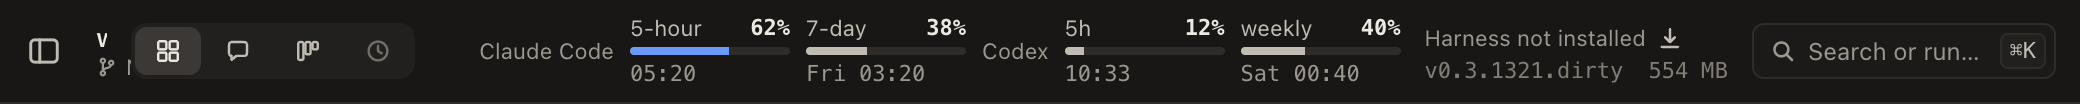
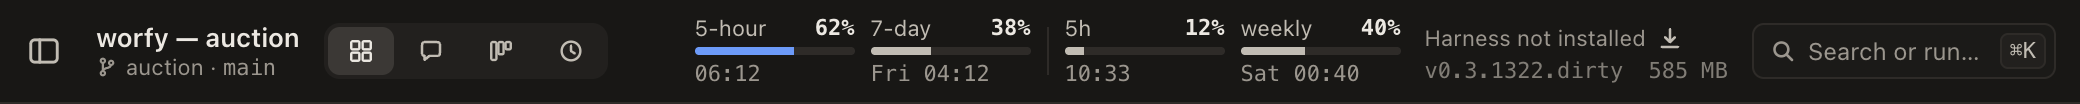
fix(limits): keep the Project title whole next to two Limits sections (worfy-multi-vendor 26)
- A section with bars no longer shows its Vendor's name: the name is the section's tooltip and its
  accessible name, as the F mockup shows no names. With Codex signed in, the visible names took the
  width of the Project title, which fell to ~6 px ("w...") in a 1280 px window.
- A compact panel parts its sections with a thin line; a section without bars still names its Vendor
  ("Codex No limits reported"). Claude's section alone is the F mockup again, without "Claude Code".
- The e2e opens a Project at 1280 px and checks that the title and its branch line are whole.
- Removes the stale doc comment before receive() of the Codex Session.

diff --git a/test/e2e/limits-vendors.spec.ts b/test/e2e/limits-vendors.spec.ts
@@ -1,9 +1,11 @@
+import { execFileSync } from 'node:child_process'
 import { mkdirSync, mkdtempSync, realpathSync, writeFileSync } from 'node:fs'
 import { rm } from 'node:fs/promises'
 import { tmpdir } from 'node:os'
 import { join } from 'node:path'
 import { expect, test, type Locator, type Page } from '@playwright/test'
 import { launchApp, repoRoot } from './helpers'
+import { profileJsonScript } from '../harness-node'
 
 // The Limits panel by Vendor (worfy-multi-vendor ticket 26) against the built app: Claude's section from
 // limits.json, and the Codex section from the background poll of the Codex driver, which e2e runs make
@@ -12,6 +14,30 @@ import { launchApp, repoRoot } from './helpers'
 // account-plus.jsonl — signed in to the Plus plan, a 5-hour window at 12 % and a weekly one at 40 %.
 // A Codex Session cannot start in the app yet (tickets 23 and 24), so the section comes from the poll,
 // not from a Codex turn; the turn's `limits` event is test/contract/codex-session-limits.test.ts.
+// The window is 1280 px wide with a Project open, as the F mockup draws the toolbar: with both sections the
+// Project title and its branch line stay whole (ticket 26, rework round 1).
+
+/** The Project of the F mockup (docs/design/F-canvas-light.dc.html): the title reads `worfy — auction`. */
+const PROJECT = 'auction'
+const WIDTH = 1280
+
+/**
+ * A `bin/profile` stub that knows every folder, so "Add project" puts the repository into the list at
+ * once (as in test/e2e/toolbar.spec.ts).
+ */
+const KNOWS_ALL = profileJsonScript('{"name":"stub","_resolved":{"workspace":null}}')
+
+function makeRepo(parent: string, name: string): string {
+  const dir = join(parent, name)
+  mkdirSync(dir, { recursive: true })
+  const env = Object.fromEntries(Object.entries(process.env).filter(([key]) => !key.startsWith('GIT_')))
+  const git = (...args: string[]) => execFileSync('git', ['-c', 'user.name=t', '-c', 'user.email=t@t', ...args], { cwd: dir, env })
+  git('init', '-q', '-b', 'main')
+  writeFileSync(join(dir, 'README.md'), name)
+  git('add', '.')
+  git('commit', '-q', '-m', 'init')
+  return realpathSync.native(dir)
+}
 
 const removeDir = (dir: string): Promise<void> => rm(dir, { recursive: true, force: true, maxRetries: 5, retryDelay: 100 })
 
@@ -61,13 +87,37 @@ async function screenshots(window: Page, name: string): Promise<void> {
 test('signed in to Codex: a Codex section with the windows of its plan next to Claude\'s, inside the toolbar', async () => {
   const launched = await launchApp({ env: { WORFY_DATA_DIR: dataDir, CODEX_HOME: codexHome, WORFY_CODEX_SCRIPT: 'account-plus', WORFY_CODEX_SCRIPTS: join(repoRoot, 'test', 'fixtures', 'codex-scripts') } })
   try {
-    const { window } = launched
+    const { app, window } = launched
+    await expect(window.getByTestId('app-shell')).toBeVisible()
+    await expect.poll(() => app.evaluate(({ BrowserWindow }) => BrowserWindow.getAllWindows()[0]?.isVisible() ?? false)).toBe(true)
+    // Set the size once the window is on screen (macOS fits a window shown later into the display).
+    await expect
+      .poll(async () => {
+        const width = await window.evaluate(() => (globalThis as unknown as { innerWidth: number }).innerWidth)
+        if (width !== WIDTH) await app.evaluate(({ BrowserWindow }, wanted) => BrowserWindow.getAllWindows()[0]?.setContentSize(wanted, 800), WIDTH)
+        return width
+      })
+      .toBe(WIDTH)
+    const repo = makeRepo(scratch, PROJECT)
+    mkdirSync(join(launched.claudeHome, 'bin'), { recursive: true })
+    writeFileSync(join(launched.claudeHome, 'bin', 'profile'), KNOWS_ALL, { mode: 0o755 })
+    await app.evaluate(({ dialog }, path) => {
+      dialog.showOpenDialog = (() => Promise.resolve({ canceled: false, filePaths: [path] })) as typeof dialog.showOpenDialog
+    }, repo)
+    await window.getByRole('button', { name: 'Add project' }).click()
+    const toolbar = window.getByRole('banner')
+    await expect(toolbar.locator('.w-toolbar__name')).toHaveText(`worfy — ${PROJECT}`)
+
     const meter = window.getByTestId('limits-meter')
     const claude = meter.getByRole('group', { name: 'Claude Code limits' })
     const codex = meter.getByRole('group', { name: 'Codex limits' })
 
     await expect(codex).toBeVisible()
-    await expect(codex.getByTestId('limits-codex-name')).toHaveText('Codex')
+    // The Vendor's name is the section's tooltip, not a visible label; a thin line parts the two sections.
+    await expect(codex).toHaveAttribute('title', 'Codex')
+    await expect(meter.getByTestId('limits-codex-name')).toHaveCount(0)
+    await expect(meter).not.toContainText('Codex')
+    await expect(meter.getByTestId('limits-divider')).toHaveCount(1)
     // Shortest window first, each labelled by its length as Codex's own TUI does.
     await expect(codex.getByRole('meter')).toHaveCount(2)
     await expect(codex.getByRole('meter', { name: '5h limit' })).toHaveAttribute('aria-valuenow', '12')
@@ -82,13 +132,13 @@ test('signed in to Codex: a Codex section with the windows of its plan next to C
     expect(first.x, 'the 5-hour window before the weekly one').toBeLessThan(second.x)
 
     // Claude's section keeps its bars and their test ids.
-    await expect(claude.getByTestId('limits-claude-name')).toHaveText('Claude Code')
+    await expect(claude).toHaveAttribute('title', 'Claude Code')
+    await expect(meter).not.toContainText('Claude Code')
     await expect(claude.getByTestId('limit-five_hour-value')).toHaveText('62%')
     await expect(claude.getByTestId('limit-seven_day-value')).toHaveText('38%')
     expect((await box(claude)).x, 'Claude\'s section first').toBeLessThan((await box(codex)).x)
 
     // Both sections fit the toolbar: the meter ends before the Harness column, inside the window.
-    const toolbar = window.getByRole('banner')
     const limits = await box(meter)
     const harness = await box(toolbar.getByTestId('harness-column'))
     expect(limits.x + limits.width, `the Limits (${JSON.stringify(limits)}) end before the Harness column (${JSON.stringify(harness)})`).toBeLessThanOrEqual(harness.x)
@@ -108,6 +158,23 @@ test('signed in to Codex: a Codex section with the windows of its plan next to C
       })
       expect(cut, `a text of ${id} is cut`).toBe(false)
     }
+
+    // The Project title and its branch line stay whole next to both sections: neither is cut with an
+    // ellipsis (visible Vendor names once left the title ~6 px, `w…`), and the title ends before the View switch.
+    const title = await box(toolbar.locator('.w-toolbar__title'))
+    const view = await box(toolbar.getByRole('group', { name: 'View', exact: true }))
+    expect(title.x + title.width, `the title (${JSON.stringify(title)}) ends before the View switch (${JSON.stringify(view)})`).toBeLessThanOrEqual(view.x)
+    for (const [part, locator] of [
+      ['title', toolbar.locator('.w-toolbar__name')],
+      ['branch line', toolbar.locator('.w-toolbar__subtitle-text')],
+    ] as const) {
+      const overflow = await locator.evaluate((node) => {
+        const found = node as unknown as { scrollWidth: number; clientWidth: number }
+        return { scrollWidth: found.scrollWidth, clientWidth: found.clientWidth }
+      })
+      expect(overflow.scrollWidth, `the ${part} is whole (${JSON.stringify(overflow)})`).toBeLessThanOrEqual(overflow.clientWidth)
+    }
+    await expect(toolbar.locator('.w-toolbar__subtitle-text')).toHaveText(`${PROJECT} · main`)
 
     await screenshots(window, 'limits-vendors')
   } finally {

diff --git a/src/renderer/shell/toolbar/LimitsMeter.tsx b/src/renderer/shell/toolbar/LimitsMeter.tsx
@@ -1,18 +1,25 @@
+import { Fragment } from 'react'
 import { limitSections, type LimitSection, type LimitsView } from '../../../shared/agent/limits'
 import { LimitBarView } from '../../limits/LimitBar'
 import { useLimits, useNow } from '../../limits/useLimits'
 
-// The Limits in the toolbar: a section per Vendor, each with its name and its windows' bars — Claude's
-// 5-hour and 7-day, then each other Vendor signed in to (Codex) with the windows its plan reports,
-// shortest first, or "No limits reported" (worfy-multi-vendor ticket 26). A Vendor signed out has no
-// section. Main keeps the Limits (src/main/agent/limits.ts); the bars are drawn with
-// src/renderer/limits/LimitBar.tsx and the Limits read through src/renderer/limits/useLimits.ts.
-// This is the only place worfy shows the Limits; the Session view's rail does not repeat them.
+// The Limits in the toolbar: a section per Vendor with its windows' bars — Claude's 5-hour and 7-day,
+// then each other Vendor signed in to (Codex) with the windows its plan reports, shortest first, or
+// "No limits reported" (worfy-multi-vendor ticket 26). A Vendor signed out has no section. Main keeps the
+// Limits (src/main/agent/limits.ts); the bars are drawn with src/renderer/limits/LimitBar.tsx and the
+// Limits read through src/renderer/limits/useLimits.ts. This is the only place worfy shows the Limits;
+// the Session view's rail does not repeat them.
 //
-// With more than one section the panel is compact, so that it, the Harness column and the search field
-// stay whole in a 1280 px window (test/e2e/limits-vendors.spec.ts): no "Limits" heading (the group keeps
-// it as its name), smaller gaps, and narrower bars whose reset line is the time alone, the whole line
-// as its tooltip. With Claude's section alone it looks as before.
+// A section with bars does not show its Vendor's name, as the F mockup shows none: the name is the
+// section's tooltip and its accessible name (`Codex limits`). Visible names took the width the Project
+// title needs, and at 1280 px the title fell to its first letter (ticket 26, rework round 1). A section
+// without bars says whose it is: `Codex No limits reported`.
+//
+// With more than one section the panel is compact, so that it, the Project title with its branch line,
+// the Harness column and the search field stay whole in a 1280 px window (test/e2e/limits-vendors.spec.ts):
+// no "Limits" heading (the group keeps it as its name), a thin line between the sections, smaller gaps,
+// and narrower bars whose reset line is the time alone, the whole line as its tooltip. With Claude's
+// section alone it looks as in the F mockup.
 
 // Before the Harness item (500), which carries the app version.
 export const order = 100
@@ -24,24 +31,38 @@ const muted = { fontSize: 'var(--text-11)', color: 'var(--text-muted)' } as cons
 
 /**
  * One Vendor's section. Claude's bars keep their test ids (`limit-five_hour`); another Vendor's carry
- * its id (`limit-codex-primary`), since its window ids are its own.
+ * its id (`limit-codex-primary`), since its window ids are its own. The Vendor's name is shown only
+ * beside the line said in place of the bars; with bars it is the section's tooltip.
  */
 function SectionView({ section, first, compact }: { section: LimitSection; first: boolean; compact: boolean }) {
   const prefix = first ? 'limit' : `limit-${section.vendor}`
   return (
-    <div role="group" aria-label={`${section.name} limits`} data-testid={`limits-${section.vendor}`} style={{ display: 'flex', alignItems: 'center', gap: compact ? COMPACT_GAP : GAP, flex: 'none' }}>
-      <span style={{ ...muted, whiteSpace: 'nowrap' }} data-testid={`limits-${section.vendor}-name`}>
-        {section.name}
-      </span>
+    <div
+      role="group"
+      aria-label={`${section.name} limits`}
+      title={section.empty === null ? section.name : undefined}
+      data-testid={`limits-${section.vendor}`}
+      style={{ display: 'flex', alignItems: 'center', gap: compact ? COMPACT_GAP : GAP, flex: 'none' }}
+    >
       {section.empty !== null ? (
-        <span style={{ ...muted, whiteSpace: 'nowrap' }} data-testid={`limits-${section.vendor}-empty`}>
-          {section.empty}
-        </span>
+        <>
+          <span style={{ ...muted, whiteSpace: 'nowrap' }} data-testid={`limits-${section.vendor}-name`}>
+            {section.name}
+          </span>
+          <span style={{ ...muted, whiteSpace: 'nowrap' }} data-testid={`limits-${section.vendor}-empty`}>
+            {section.empty}
+          </span>
+        </>
       ) : (
         section.bars.map((bar) => <LimitBarView key={bar.window} bar={bar} testId={`${prefix}-${bar.window}`} compact={compact} />)
       )}
     </div>
   )
+}
+
+/** The thin line between two sections of a compact panel. */
+function Divider() {
+  return <span aria-hidden="true" data-testid="limits-divider" style={{ width: 1, height: 24, flex: 'none', background: 'var(--border)' }} />
 }
 
 /** The sections of `state` at `now`, or "no data yet"; exported for tests, which pass their own state. */
@@ -56,7 +77,12 @@ export function LimitsMeterView({ state, now, timeZone }: { state: LimitsView; n
           no data yet
         </span>
       ) : (
-        sections.map((section, index) => <SectionView key={section.vendor} section={section} first={index === 0} compact={compact} />)
+        sections.map((section, index) => (
+          <Fragment key={section.vendor}>
+            {index > 0 && <Divider />}
+            <SectionView section={section} first={index === 0} compact={compact} />
+          </Fragment>
+        ))
       )}
     </div>
   )

diff --git a/test/unit/limits-meter.test.tsx b/test/unit/limits-meter.test.tsx
@@ -86,14 +86,22 @@ describe('LimitsMeterView: a section per Vendor', () => {
   })
   const sectionNames = (): string[] => screen.getAllByRole('group', { name: / limits$/ }).map((group) => group.getAttribute('aria-label')!)
 
-  it('two Vendors are two sections, each with its name and bars; Codex labels its bars with the window\'s label', () => {
+  it('two Vendors are two sections, each with its bars and its name as the tooltip; Codex labels its bars with the window\'s label', () => {
     // The 7-day window comes first in the list: the bars go by the window's length, not the order read.
     const view: LimitsView = { claude, vendors: { codex: [codex('secondary', 'weekly', 40, 10080), codex('primary', '5h', 12, 300)] } }
     render(<LimitsMeterView state={view} now={AT} timeZone={TZ} />)
     expect(sectionNames()).toEqual(['Claude Code limits', 'Codex limits'])
 
+    // No visible Vendor names (the F mockup has none, and they took the Project title's width at 1280 px):
+    // each name is its section's tooltip and accessible name, and a thin line parts the sections.
+    const meter = screen.getByRole('group', { name: 'Limits' })
+    expect(meter.textContent).toBe('5-hour62%07:107-daylimit reached5h12%09:00weekly40%Mon 09:00')
+    expect(screen.queryByTestId(/^limits-[a-z]+-name$/)).toBeNull()
+    expect([...meter.children].map((child) => child.getAttribute('data-testid'))).toEqual(['limits-claude', 'limits-divider', 'limits-codex'])
+    expect(screen.getByTestId('limits-divider').getAttribute('aria-hidden')).toBe('true')
+
     const claudeSection = screen.getByRole('group', { name: 'Claude Code limits' })
-    expect(within(claudeSection).getByTestId('limits-claude-name').textContent).toBe('Claude Code')
+    expect(claudeSection.getAttribute('title')).toBe('Claude Code')
     // Two sections make the panel compact: no "Limits" heading (the group keeps the name), the reset line is the time alone.
     expect(screen.getByRole('group', { name: 'Limits' }).dataset.compact).toBe('true')
     expect(screen.queryByText('Limits')).toBeNull()
@@ -101,7 +109,7 @@ describe('LimitsMeterView: a section per Vendor', () => {
     expect(within(claudeSection).getByTestId('limit-five_hour-note').getAttribute('title')).toBe('resets 07:10')
 
     const codexSection = screen.getByRole('group', { name: 'Codex limits' })
-    expect(within(codexSection).getByTestId('limits-codex-name').textContent).toBe('Codex')
+    expect(codexSection.getAttribute('title')).toBe('Codex')
     const bars = within(codexSection).getAllByRole('meter')
     expect(bars.map((bar) => [bar.getAttribute('aria-label'), bar.getAttribute('aria-valuenow')])).toEqual([['5h limit', '12'], ['weekly limit', '40']])
     // A window longer than a day shows the weekday of its reset, as Claude's 7-day one.
@@ -122,9 +130,12 @@ describe('LimitsMeterView: a section per Vendor', () => {
     render(<LimitsMeterView state={state} now={AT} timeZone={TZ} />)
     expect(sectionNames()).toEqual(['Claude Code limits'])
     expect(screen.queryByTestId('limits-codex')).toBeNull()
-    // One section is drawn as before: the heading and the whole reset line.
+    // One section is drawn as in the F mockup: the heading, no Vendor name, no line, the whole reset line.
     expect(screen.getByRole('group', { name: 'Limits' }).dataset.compact).toBeUndefined()
-    expect(screen.getByRole('group', { name: 'Limits' }).textContent).toMatch(/^LimitsClaude Code5-hour62%resets 07:10/)
+    expect(screen.getByRole('group', { name: 'Limits' }).textContent).toMatch(/^Limits5-hour62%resets 07:10/)
+    expect(screen.getByRole('group', { name: 'Claude Code limits' }).getAttribute('title')).toBe('Claude Code')
+    expect(screen.queryByTestId('limits-claude-name')).toBeNull()
+    expect(screen.queryByTestId('limits-divider')).toBeNull()
   })
 
   it('signed in to Codex with no windows: "No limits reported", and Claude without data says so in its own section', () => {
@@ -132,6 +143,9 @@ describe('LimitsMeterView: a section per Vendor', () => {
     expect(sectionNames()).toEqual(['Claude Code limits', 'Codex limits'])
     expect(screen.getByTestId('limits-codex-empty').textContent).toBe('No limits reported')
     expect(screen.getByTestId('limits-claude-empty').textContent).toBe('no data yet')
+    // Without bars a section says whose it is: the name is shown beside the line, not as a tooltip.
+    expect(screen.getByRole('group', { name: 'Limits' }).textContent).toBe('Claude Codeno data yetCodexNo limits reported')
+    expect(screen.getByRole('group', { name: 'Codex limits' }).getAttribute('title')).toBeNull()
     expect(screen.queryByRole('meter')).toBeNull()
     expect(screen.queryByTestId('limits-empty')).toBeNull()
   })

diff --git a/src/main/vendors/codex/session.ts b/src/main/vendors/codex/session.ts
@@ -196,7 +196,6 @@ class CodexSession implements SessionHandle, CodexModelSource {
 
   readonly events: AsyncIterable<AgentEvent> = { [Symbol.asyncIterator]: () => this.out[Symbol.asyncIterator]() }
 
-  /** One message of the app-server. */
   /**
    * The app-server's messages, in order. While a refusal by the Limits is decided (refusal()), what
    * comes after it waits: so `limit_reached` comes before the turn's `result`.

diff --git a/docs/features/transcripts-and-usage.md b/docs/features/transcripts-and-usage.md
@@ -175,8 +175,11 @@ any data arrives it says "no data yet". A window without data says "no data".
 - **Claude Code** comes first, with two bars, 5-hour and 7-day.
 - **Codex** has a section only while the user is signed in to it. Its bars are the windows its plan reports, shortest first, each
   labelled by its length (`5h`, `weekly`). A plan that reports no windows shows "No limits reported".
-- **Several sections** make the panel compact, so it fits next to the rest of the toolbar in a 1280 px window: no "Limits"
-  heading, narrower bars, and the reset line is the time alone (`Thu 09:00`), with `resets …` as its tooltip.
+- **Vendor names** are not shown next to the bars: a section's tooltip names its Vendor. A section without bars shows the name
+  beside its line, `Codex No limits reported`.
+- **Several sections** make the panel compact, so it fits next to the rest of the toolbar in a 1280 px window and the Project
+  title with its branch line stays whole: no "Limits" heading, a thin line between the sections, narrower bars, and the reset line
+  is the time alone (`Thu 09:00`), with `resets …` as its tooltip.
 
 - **Value:** the used share, `62%`. Without a share it is the status in words: allowed, near limit, limit reached.
 - **Reset:** `resets 14:20` for the 5-hour window and `resets Thu 09:00` for the 7-day one; a Codex window longer than a day shows the
